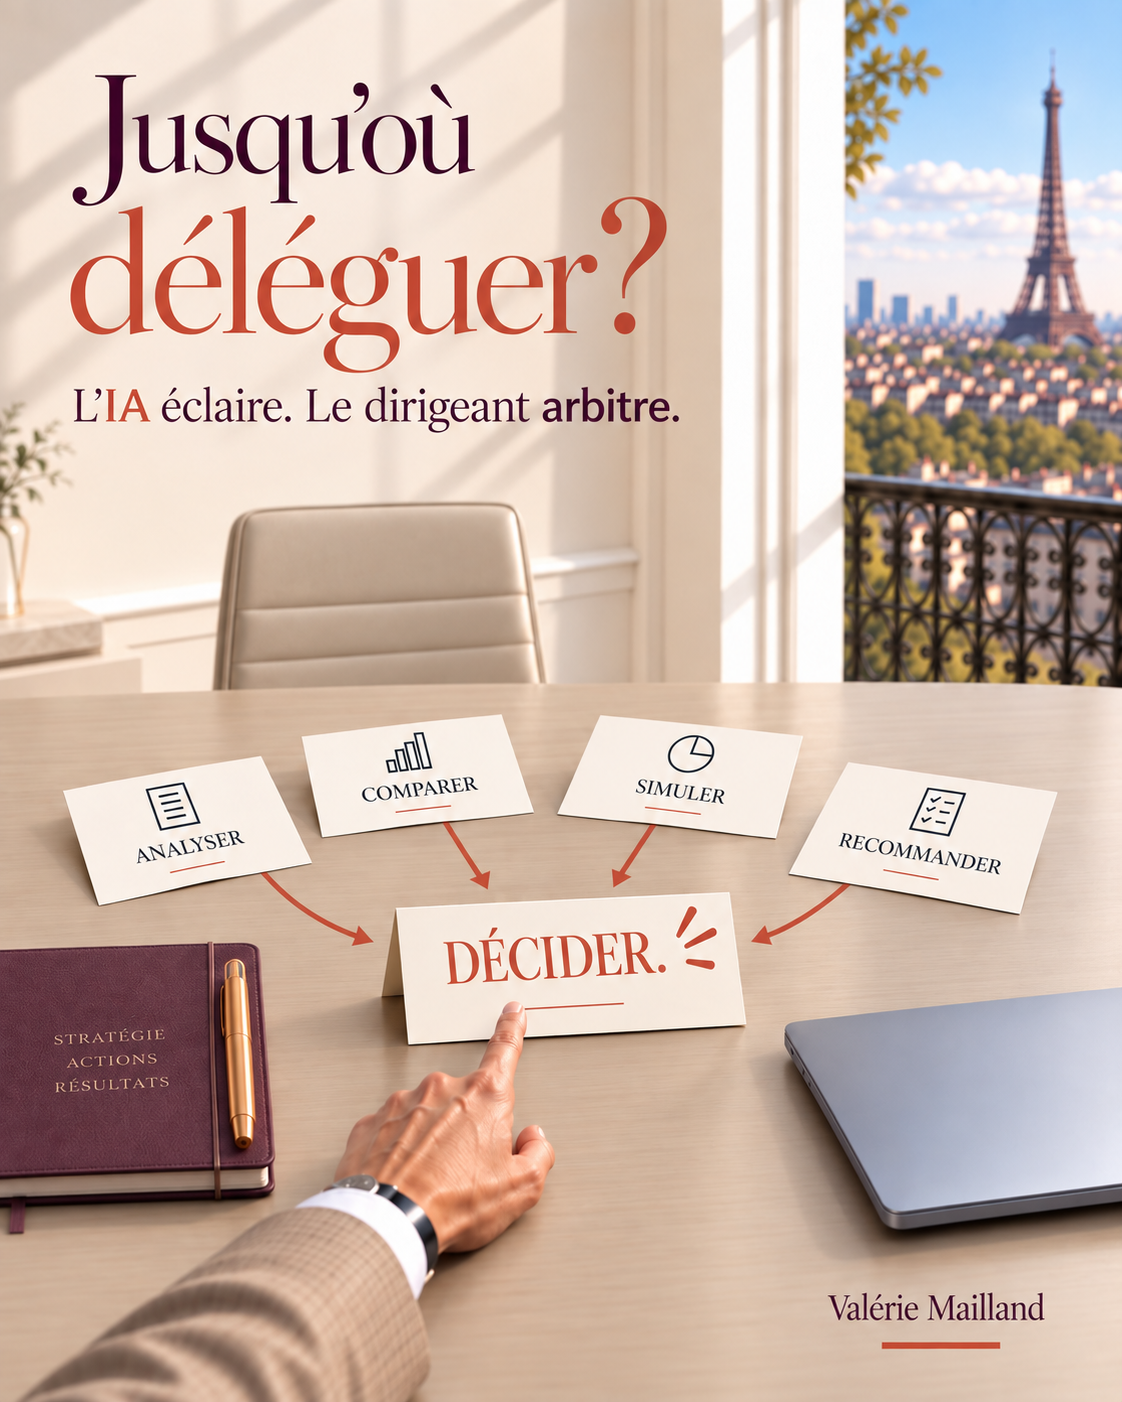
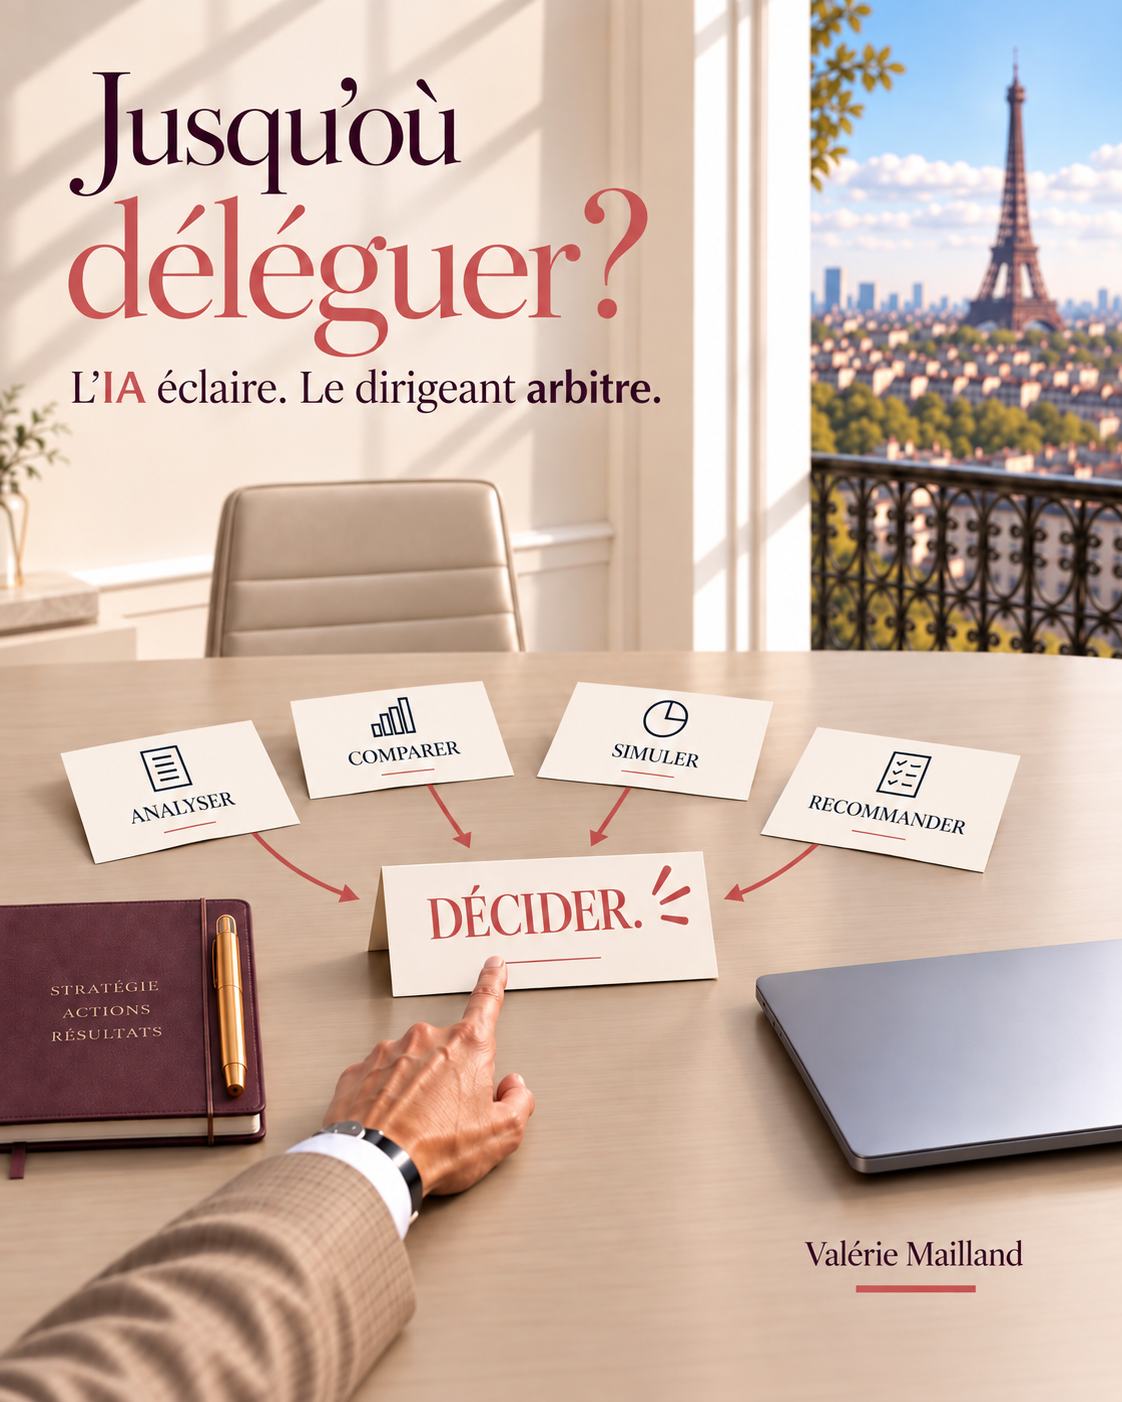
Corrige le terracotta Post 1 (Gouvernance) et image FR/EN Post 2 (Décision)
- Gouvernance : "Choisir" recalé sur #C75F62 exact (était trop saturé/rouge)
- Décision : nouvelle version FR avec terracotta corrigé également
- Décision : première image EN dédiée ("How far to delegate? AI informs.
  The executive arbitrates.") — ES à venir

diff --git a/a-propos-en.html b/a-propos-en.html
@@ -130,7 +130,7 @@
       </a>
       <a href="perspective-toutes-decisions-ne-se-deleguent-pas.html" class="persp-card persp-card--link">
         <div class="persp-card-visual persp-card-visual--img persp-card-visual--decision" aria-hidden="true">
-          <img src="assets/perspectives/decision-jusquou-deleguer.png" alt="" loading="lazy" decoding="async">
+          <img src="assets/perspectives/decision-jusquou-deleguer-en.png" alt="" loading="lazy" decoding="async">
           <span class="persp-card-visual-overlay">Decision</span>
         </div>
         <span class="persp-card-meta">Decision · 2 min</span>
